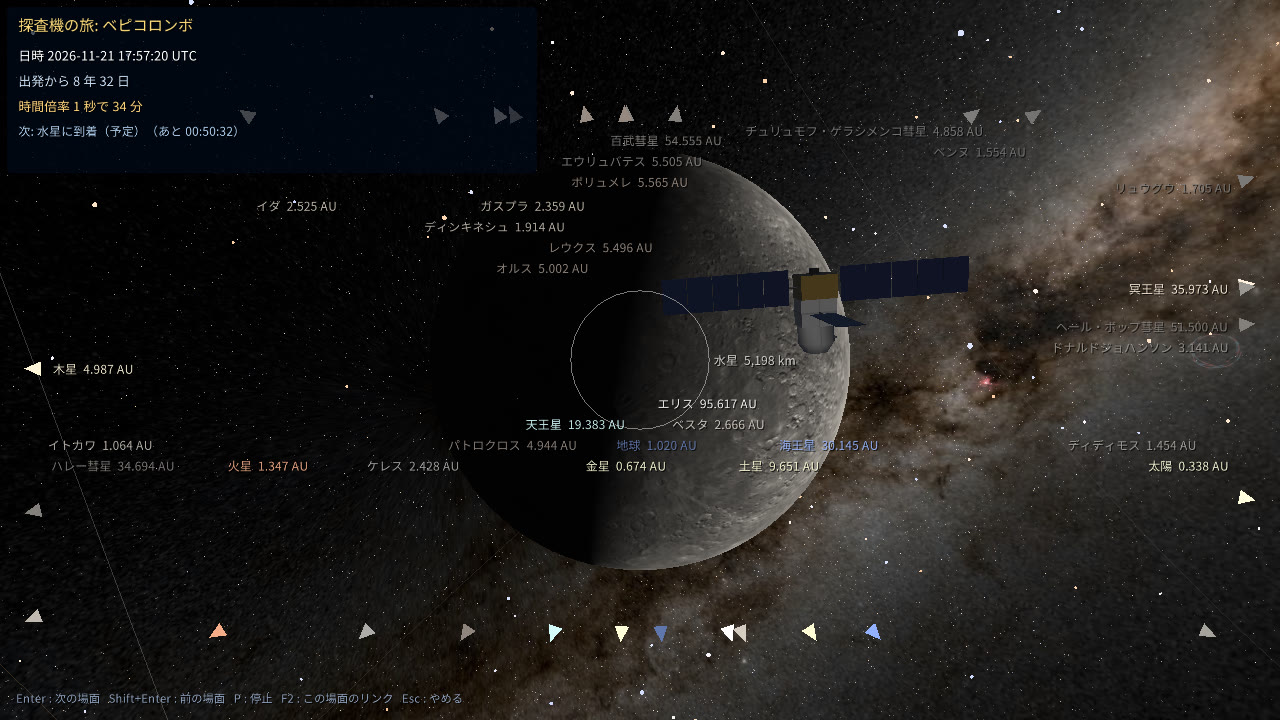
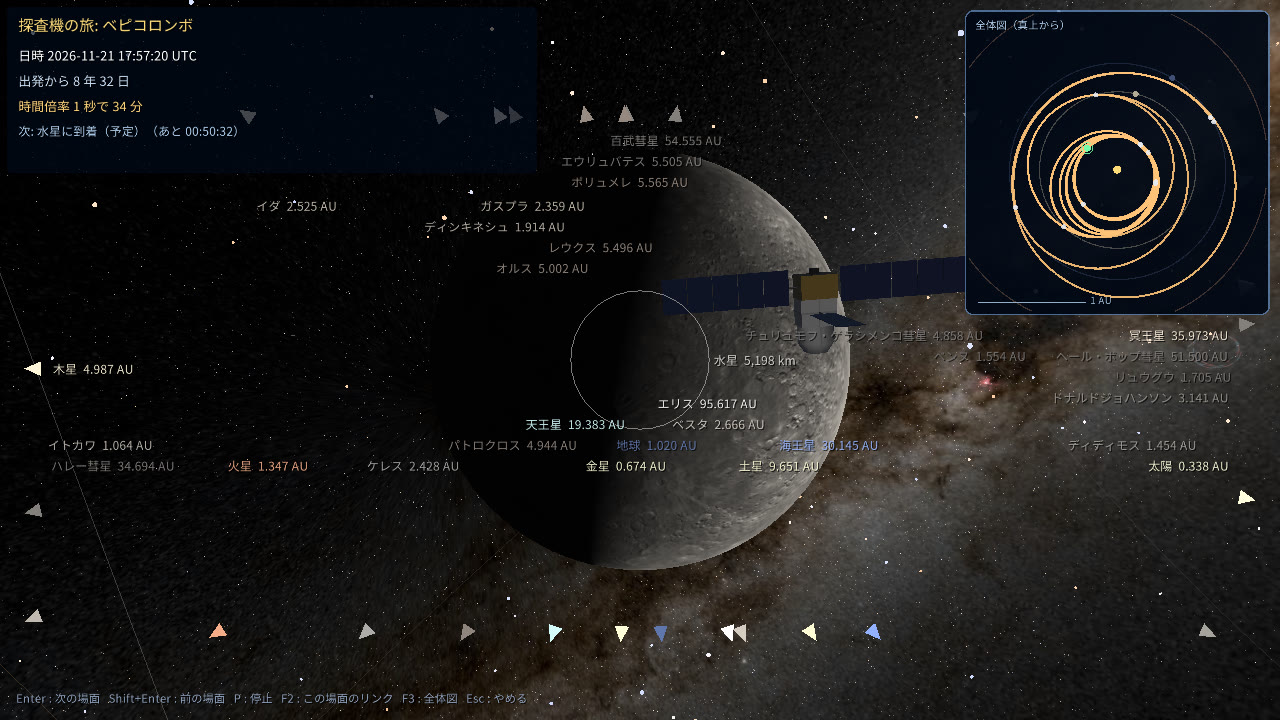
Show a map of the path so far during spacecraft voyages

diff --git a/src/app/voyage.h b/src/app/voyage.h
@@ -227,6 +227,27 @@ static void BuildVoyage(const App& app, int i, std::vector<VoyageStep>* steps, d
     std::stable_sort(steps->begin(), steps->end(), [](const VoyageStep& a, const VoyageStep& b) { return a.t < b.t; });
 }
 
+// 右上の小さな全体図のために、全行程の太陽中心の位置を等間隔の時刻で求めておく
+static void SampleVoyageTrack(App& app) {
+    const int N = 1500;
+    std::vector<Body> B = app.B;
+    for (Body& b : B) b.orbit.clear();
+    double t0 = app.voySteps.front().t, t1 = app.voySteps.back().t;
+    app.voyTrack.clear();
+    app.voyTrackT.clear();
+    app.voyStepPos.clear();
+    for (int k = 0; k <= N; k++) {
+        double t = t0 + (t1 - t0) * k / N;
+        UpdateBodies(B, t);
+        app.voyTrack.push_back(B[app.voyProbe].pos - B[B_SUN].pos);
+        app.voyTrackT.push_back(t);
+    }
+    for (const VoyageStep& st : app.voySteps) {
+        UpdateBodies(B, st.t);
+        app.voyStepPos.push_back(B[app.voyProbe].pos - B[B_SUN].pos);
+    }
+}
+
 // イベント一覧の「探査機の旅」のページ。ev.t は出発、ev.body は目標、ev.dist は到着の時刻
 static std::vector<AstroEvent> FindVoyages(const App& app) {
     std::vector<AstroEvent> out;
@@ -346,6 +367,7 @@ static bool StartVoyage(App& app, int i, int scene, double t) {
     app.eventZoom = false;
     app.frameLock = false;
     app.target = i;
+    SampleVoyageTrack(app);
     double t0 = steps.front().t, t1 = steps.back().t;
     app.voyCruise = std::max(0.5, std::min(20.0, (t1 - t0) / VOY_CRUISE_WALL_SEC)) * 86400.0;
     int n = (int)steps.size();
@@ -521,6 +543,79 @@ static std::string VoyageRateText(const App& app) {
     return b;
 }
 
+// 右上の小さな全体図: 太陽系を真上から見て（右が春分点の方向）、全行程が収まる縮尺で、惑星の軌道と位置、
+// 探査機の通ってきた道（明るく）とこれから通る道（暗く）、場面の場所、今の位置を描く
+static Rectangle VoyageMapRect(const Cam& c) {
+    float s = std::max(150.0f, std::min(280.0f, std::min(c.W * 0.26f, c.H * 0.42f)));
+    return {c.W - s - 10, 10, s, s};
+}
+
+static void DrawVoyageMap(const App& app) {
+    if (!app.voyMap || app.voyTrack.empty()) return;
+    const Cam& c = app.cam;
+    Rectangle r = VoyageMapRect(c);
+    DrawRectangleRounded(r, 0.05f, 6, {0, 8, 20, 238});
+    DrawRectangleRoundedLinesEx(r, 0.05f, 6, 1.2f, {90, 130, 180, 200});
+    double range = 0;
+    for (const V3& p : app.voyTrack) range = std::max(range, std::sqrt(p.x * p.x + p.z * p.z));
+    range = std::max(range * 1.08, 0.05 * AU_KM);
+    float cx = r.x + r.width * 0.5f, cy = r.y + r.height * 0.5f + 6, R = r.width * 0.5f - 10;
+    double k = R / range;
+    auto proj = [&](V3 p) { return Vector2{(float)(cx + p.x * k), (float)(cy + p.z * k)}; };
+    // 枠の外にはみ出す線や点は描かない（切り抜きは HUD の拡大と座標が合わないので使わない）
+    Rectangle in = {r.x + 2, r.y + 2, r.width - 4, r.height - 4};
+    auto line = [&](Vector2 a, Vector2 b, float w, Color col) {
+        if (CheckCollisionPointRec(a, in) && CheckCollisionPointRec(b, in)) DrawLineEx(a, b, w, col);
+    };
+    auto dot = [&](Vector2 a, float rad, Color col) {
+        if (CheckCollisionPointRec(a, in)) DrawCircleV(a, rad, col);
+    };
+    const V3 sun = app.B[B_SUN].pos;
+    // 惑星の軌道と今の位置（全体図の外まで広がる軌道も、図の中の部分は描く）
+    for (int i = 1; i <= B_PLUTO; i++) {
+        const Body& b = app.B[i];
+        if (b.orbit.size() < 2 || b.d.a_au * AU_KM * (1 - 0.25) > range * 1.5) continue;
+        Color col = BodyColor(b, 0.8f);
+        col.a = 90;
+        Vector2 prev = proj(b.orbit[0]);
+        for (size_t j = 1; j < b.orbit.size(); j++) {
+            Vector2 q = proj(b.orbit[j]);
+            line(prev, q, 1.0f, col);
+            prev = q;
+        }
+        col.a = 230;
+        dot(proj(b.pos - sun), 2.5f, col);
+    }
+    DrawCircleV({cx, cy}, 3.5f, {255, 220, 120, 255});
+    // 探査機の道
+    size_t now = 0;
+    while (now + 1 < app.voyTrackT.size() && app.voyTrackT[now + 1] <= app.tDays) now++;
+    for (size_t j = 1; j < app.voyTrack.size(); j++) {
+        bool past = j <= now;
+        line(proj(app.voyTrack[j - 1]), proj(app.voyTrack[j]), past ? 1.8f : 1.0f,
+                   past ? Color{255, 196, 120, 230} : Color{255, 196, 120, 70});
+    }
+    // 場面の場所（済んだものは白、これからのものは灰色。知らせを出している場面は黄色）
+    for (size_t j = 0; j < app.voyStepPos.size(); j++) {
+        bool done = app.voySteps[j].t <= app.tDays;
+        Color col = (int)j == app.voyCard ? Color{255, 220, 80, 255} : done ? Color{230, 235, 245, 220} : Color{130, 140, 160, 200};
+        dot(proj(app.voyStepPos[j]), (int)j == app.voyCard ? 3.5f : 2.2f, col);
+    }
+    // 今の位置（点滅する輪）
+    Vector2 me = proj(app.B[app.voyProbe].pos - sun);
+    float pulse = 4.0f + 2.0f * (float)std::fabs(std::sin(GetTime() * 3));
+    dot(me, 3.0f, {120, 255, 170, 255});
+    if (CheckCollisionPointRec(me, in)) DrawCircleLinesV(me, pulse, {120, 255, 170, 220});
+    // 見出しと縮尺（1 / 10 AU の棒）
+    Txt(T(UI_VOY_MAP), r.x + 8, r.y + 5, 13, {170, 200, 230, 255});
+    double unit = range > 8 * AU_KM ? 10 * AU_KM : range > 0.8 * AU_KM ? AU_KM : 0.1 * AU_KM;
+    float bw = (float)(unit * k);
+    char b[32];
+    snprintf(b, sizeof b, "%g AU", unit / AU_KM);
+    DrawLineEx({r.x + 10, r.y + r.height - 10}, {r.x + 10 + bw, r.y + r.height - 10}, 1.5f, {170, 200, 230, 220});
+    Txt(b, r.x + 14 + bw, r.y + r.height - 18, 12, {170, 200, 230, 220});
+}
+
 static void DrawVoyageHud(const App& app) {
     const Cam& c = app.cam;
     const Body& p = app.B[app.voyProbe];
@@ -551,6 +646,8 @@ static void DrawVoyageHud(const App& app) {
         snprintf(b, sizeof b, T(UI_VOY_NEXT), t.c_str(), when.c_str());
         Txt(b, x, y, fs - 1, {170, 200, 230, 255});
     }
+
+    DrawVoyageMap(app);
 
     // できごとの知らせ（右下の空いた所まで使えるよう、左下に）
     bool showCard = app.voyCard >= 0;

diff --git a/src/app/strings.h b/src/app/strings.h
@@ -123,8 +123,9 @@
     X(VOY_REACHED, "%sに到達（最接近）", "Reached %s (closest approach)") \
     X(VOY_IMPACT, "%sに衝突", "Impact on %s") \
     X(VOY_SUMMARY, "出発から %.1f 年、スイングバイ %d 回、飛行距離 約 %.1f AU", "%.1f years since launch, gravity assists: %d, about %.1f AU flown") \
-    X(VOY_KEYS, "Enter : 次の場面   Shift+Enter : 前の場面   P : 停止   F2 : この場面のリンク   Esc : やめる", "Enter : next scene   Shift+Enter : previous   P : pause   F2 : link to this scene   Esc : quit") \
+    X(VOY_KEYS, "Enter : 次の場面   Shift+Enter : 前の場面   P : 停止   F2 : この場面のリンク   F3 : 全体図   Esc : やめる", "Enter : next scene   Shift+Enter : previous   P : pause   F2 : link to this scene   F3 : map   Esc : quit") \
     X(VOY_KEYS_DONE, "旅は完了しました   Enter / Esc : 終わる   F2 : この場面のリンク", "Voyage complete   Enter / Esc : finish   F2 : link to this scene") \
+    X(VOY_MAP, "全体図（真上から）", "Map (from above)") \
     X(VOY_STOPPED, "探査機の旅を終えました", "Voyage ended") \
     X(VOY_NOT_FOUND, "指定された探査機の旅が見つかりません", "That spacecraft voyage was not found") \
     X(EV_PROBE_TITLE, "探査機のできごと", "Spacecraft events") \

diff --git a/src/app/hud.h b/src/app/hud.h
@@ -424,7 +424,13 @@ static void DrawMarkers(const App& app) {
         {0, c.H - 64, c.W, 64},                             // エンジン表示
     };
     if (app.autopilot) g_placed.push_back({c.W * 0.5f - 320, c.H - 118, 640, 40});  // 自動操縦表示
-    if (app.voyageOn) g_placed = {{0, 0, 480, 170}, {0, c.H - 210, std::min(c.W, 1040.0f), 210}};   // 探査機の旅の表示
+    if (app.voyageOn) {   // 探査機の旅の表示
+        g_placed = {{0, 0, 480, 170}, {0, c.H - 210, std::min(c.W, 1040.0f), 210}};
+        if (app.voyMap) {
+            Rectangle m = VoyageMapRect(c);
+            g_placed.push_back({m.x - 6, 0, m.width + 16, m.height + 20});
+        }
+    }
     if (!app.cockpit) {  // 自機の上にラベルを重ねない
         Vector2 sp;
         V3 rel = c.shipRel;

diff --git a/src/app/app_state.h b/src/app/app_state.h
@@ -120,6 +120,10 @@ struct App {
     double voyCruise = 86400, voyRate = 1, voyLength = 0;
     bool voyDone = false, voySavedCockpit = false, voySavedPhysics = false;
     V3 voyAim = V3(0, 0, -1);
+    std::vector<V3> voyTrack;             // 旅の全行程の太陽中心の位置（右上の小さな全体図に描く）
+    std::vector<double> voyTrackT;
+    std::vector<V3> voyStepPos;           // 各場面の太陽中心の位置
+    bool voyMap = true;                   // 右上の小さな全体図を出す（F3 で切り替え）
     std::string pendingVoyage, pendingScene;   // URL で指定された旅（起動の最後に始める）
     double pendingVoyageT = NAN;
     std::vector<AstroEvent> voyageEvents;

diff --git a/src/app/flight.h b/src/app/flight.h
@@ -303,6 +303,7 @@ static void HandleInput(App& app, double dt) {
                           IsKeyPressed(KEY_ESCAPE) || IsKeyPressed(KEY_BACKSPACE) || pad.stop);
         if (IsKeyPressed(KEY_P)) app.paused = !app.paused;
         if (IsKeyPressed(KEY_F2)) ShareScene(app);
+        if (IsKeyPressed(KEY_F3)) app.voyMap = !app.voyMap;   // 右上の小さな全体図
         if (IsKeyPressed(KEY_H) || pad.help) app.showHelp = !app.showHelp;
         if (IsKeyPressed(KEY_K)) { OpenEventsPage(app); app.eventsOpen = true; }
         if (IsKeyPressed(KEY_O)) ChangeSetting(app, SET_ORBITS, 1, true);

diff --git a/README.en.md b/README.en.md
@@ -45,7 +45,7 @@ Body positions are computed from the PC clock (UTC); at 1x time scale they orbit
 | ![Juno](docs/screenshots/probe_view.jpg) Warping to a spacecraft: centered and large in a zoomed view (Juno at Jupiter) | ![Eddington's eclipse](docs/screenshots/historic_eclipse.jpg) Historic eclipses: the 1919 total eclipse on Principe where Eddington's team confirmed general relativity |
 | ![The supernova of 1054](docs/screenshots/supernova_1054.jpg) July 1054: the supernova that left the Crab Nebula, before dawn over Kaifeng, the Song capital | ![Shoemaker-Levy 9 scars](docs/screenshots/shoemaker_levy9.jpg) 18 July 1994: scars left on Jupiter by fragments of Comet Shoemaker-Levy 9 |
 | ![Jupiter as Galileo saw it](docs/screenshots/galileo_1610.jpg) 7 January 1610: Jupiter and its moons as Galileo saw them from Padua (two to the east, one to the west) | ![Andromeda Galaxy](docs/screenshots/andromeda.jpg) The Andromeda Galaxy zoomed in, with its companions M32 and M110 |
-| ![Carina Nebula](docs/screenshots/carina_nebula.jpg) The Carina Nebula (names shown with the C key) | ![BepiColombo arriving at Mercury](docs/screenshots/voyage_bepicolombo.jpg) Spacecraft voyage: BepiColombo just before entering Mercury orbit in November 2026 |
+| ![Carina Nebula](docs/screenshots/carina_nebula.jpg) The Carina Nebula (names shown with the C key) | ![BepiColombo arriving at Mercury](docs/screenshots/voyage_bepicolombo.jpg) Spacecraft voyage: BepiColombo just before entering Mercury orbit in November 2026 (top right: a map of its path so far) |
 | ![Asteroid Dinkinesh](docs/screenshots/voyage_dinkinesh.jpg) Spacecraft voyage: asteroid Dinkinesh, passed by Lucy at 422 km in November 2023 (zoomed in automatically) | |
 | ![Sirius B](docs/screenshots/sirius_b.jpg) Guided tour: the white dwarf Sirius B, with Sirius A 20 AU away | ![A flare on Proxima Centauri](docs/screenshots/red_dwarf_flare.jpg) The spotted red dwarf Proxima Centauri and a blue-white flare |
 
@@ -264,6 +264,7 @@ The values can be changed in the `ENGINES` table in `src/app/bodies.h`. Switchin
 On the "Spacecraft voyages" page of the event list (K), pick a spacecraft and press Enter to follow it from launch to its goal, from just behind the spacecraft (19 spacecraft whose trajectories start at Earth).
 
 - Time runs fast during quiet cruise (about 12 days per second for BepiColombo, about 15 minutes for the whole voyage) and slows to real time with a caption at each event: launch, leaving Earth's sphere of influence, gravity assists, passes by asteroids and moons, and arrival. Gravity assists show the altitude and the change in speed relative to the Sun; the arrival shows the years, gravity assists and distance flown
+- A small map at the top right (the solar system seen from above) shows the path flown so far (bright), the path ahead (dim), the scene locations and the current position (green ring). F3 shows or hides it
 - Enter goes to the next scene, Shift+Enter to the previous one, P pauses and Esc quits. The voyage is complete on arrival. Scenes that have not happened yet (planned trajectories) are marked "(planned)"
 - Asteroids (Gaspra and Ida for Galileo; Dinkinesh, Donaldjohanson and five Jupiter Trojans for Lucy) are passed at the distance of the real trajectories, and the view zooms in automatically because they would otherwise be dots
 - Distances to moons use the moon positions in this simulator, which can differ from reality

diff --git a/CHANGELOG.md b/CHANGELOG.md
@@ -4,6 +4,10 @@
 
 リリースの時は、その版の項目が GitHub のリリースノートにも載ります。
 
+## 2.26.1 (2026-11-03)
+
+- 探査機の旅の右上に小さな全体図: 太陽系を真上から見て、通ってきた道とこれから通る道、場面の場所、今の位置を出す（F3 で表示の切り替え）
+
 ## 2.26.0 (2026-11-03)
 
 - 探査機の旅: イベント一覧（K）の新しいページから、地球の出発から目標までを探査機のそばで追う（19 機）。巡航中は時間を速め、出発・重力圏の脱出・スイングバイ・小惑星や衛星への接近・到着では等倍にして説明を出す。URL の `?voyage=BepiColombo&scene=arrive` などでその場面から始まり、旅の途中の F2 でその場面のリンクをコピー

diff --git a/CHANGELOG.en.md b/CHANGELOG.en.md
@@ -4,6 +4,10 @@
 
 The release workflow copies the section of the version being released into the GitHub release notes.
 
+## 2.26.1 (2026-11-03)
+
+- A small map at the top right during spacecraft voyages: the solar system from above with the path flown so far and ahead, the scene locations and the current position (F3 toggles it)
+
 ## 2.26.0 (2026-11-03)
 
 - Spacecraft voyages: a new page in the event list (K) follows a spacecraft from launch to its goal (19 spacecraft). Time runs fast during cruise and drops to real time with a caption at launch, leaving Earth's sphere of influence, gravity assists, passes by asteroids and moons, and arrival. URLs such as `?voyage=BepiColombo&scene=arrive` start at that scene, and F2 during a voyage copies a link to the current scene
